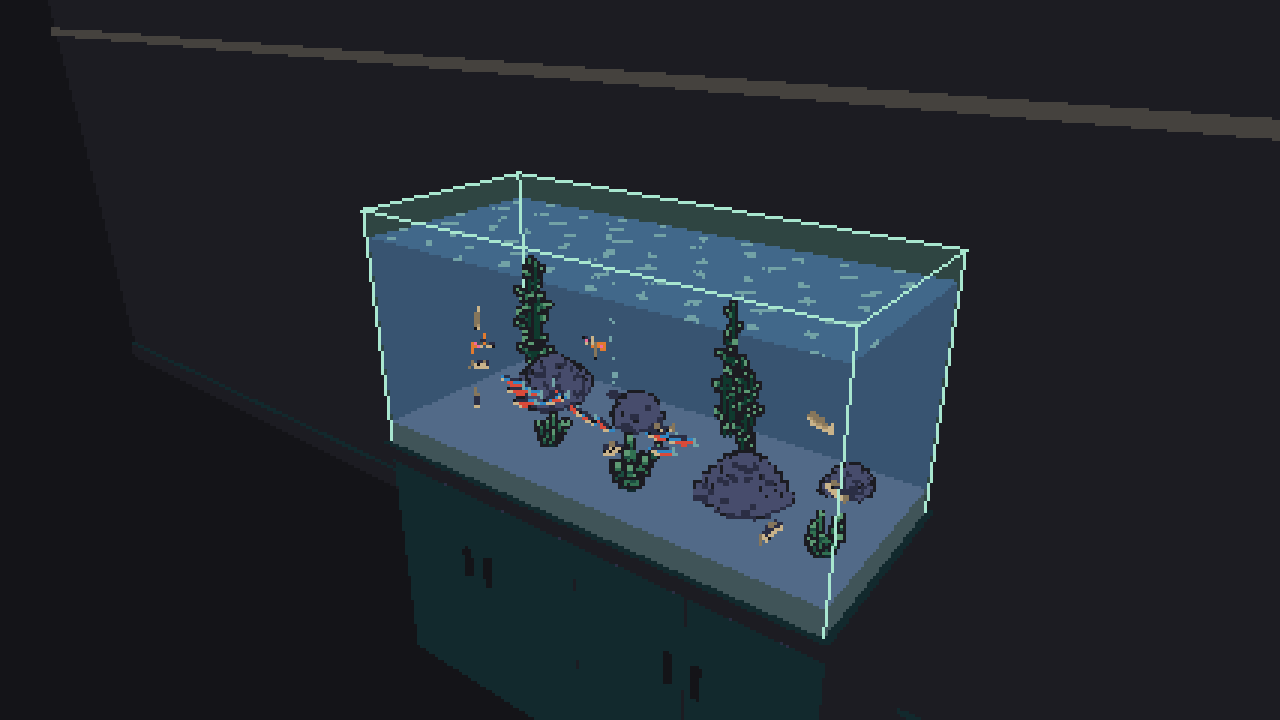
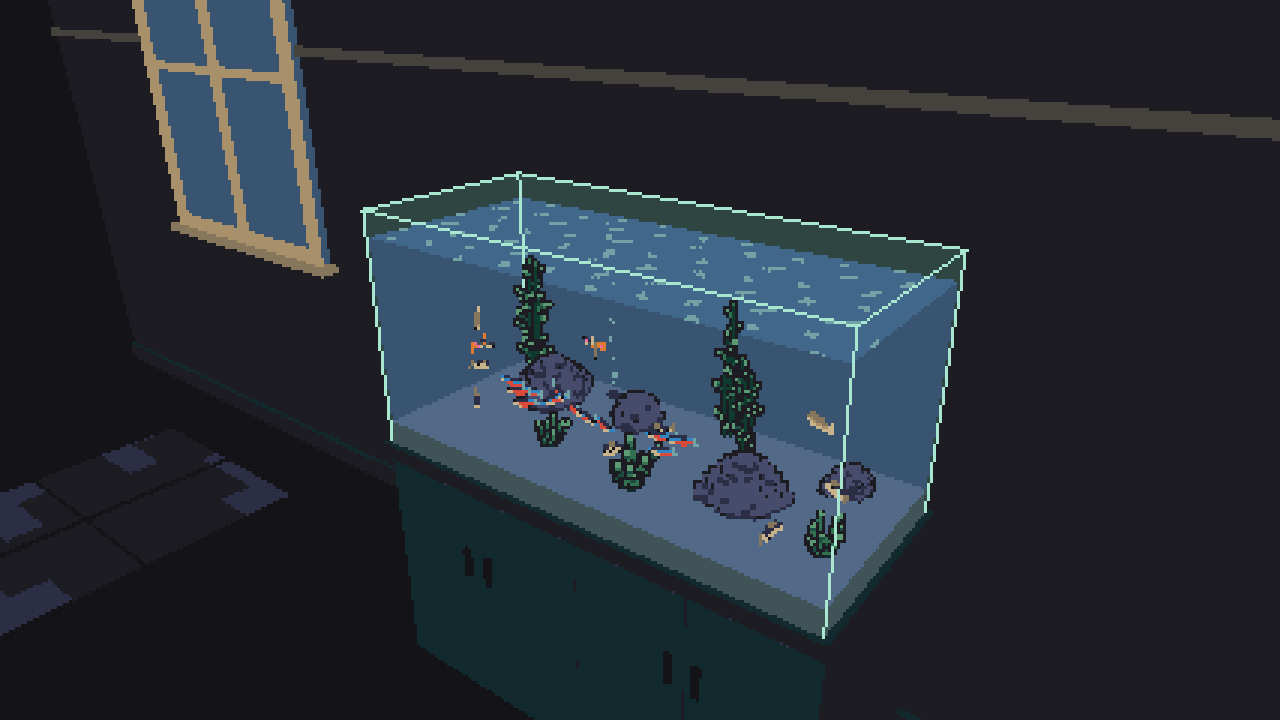
captures(c112): 5 angles

diff --git a/captures/latest/SOURCE.md b/captures/latest/SOURCE.md
@@ -1,5 +1,5 @@
-# Captures c111
-- Branche : cycle/c111-dette-fond-pluie, PR #348
-- Commit : 3be1a428b7cb98296aff4fbe972f9ea2c1d2b33b
-- Graine : celle de e2e/captures.spec.ts (par défaut)
-- Temps : 2026-10-30, 104 tests de capture, 9,1 min ; 105 PNG identiques à l'octet à c110 (même Chromium 1243)
+# Captures c112
+- Branche : cycle/c112-fenetre-lumiere (PR #350, issue #342)
+- Commit : 0d7b9ff
+- Graine : celle de chaque capture (voir e2e/captures.spec.ts)
+- Durée : 12,7 min en local (Chromium 1243 en rendu logiciel, différent de la CI : pas de comparaison à l'octet avec latest)

diff --git a/captures/c112/SOURCE.md b/captures/c112/SOURCE.md
@@ -1,0 +1,5 @@
+# Captures c112
+- Branche : cycle/c112-fenetre-lumiere (PR #350, issue #342)
+- Commit : 0d7b9ff
+- Graine : celle de chaque capture (voir e2e/captures.spec.ts)
+- Durée : 12,7 min en local (Chromium 1243 en rendu logiciel, différent de la CI : pas de comparaison à l'octet avec latest)
